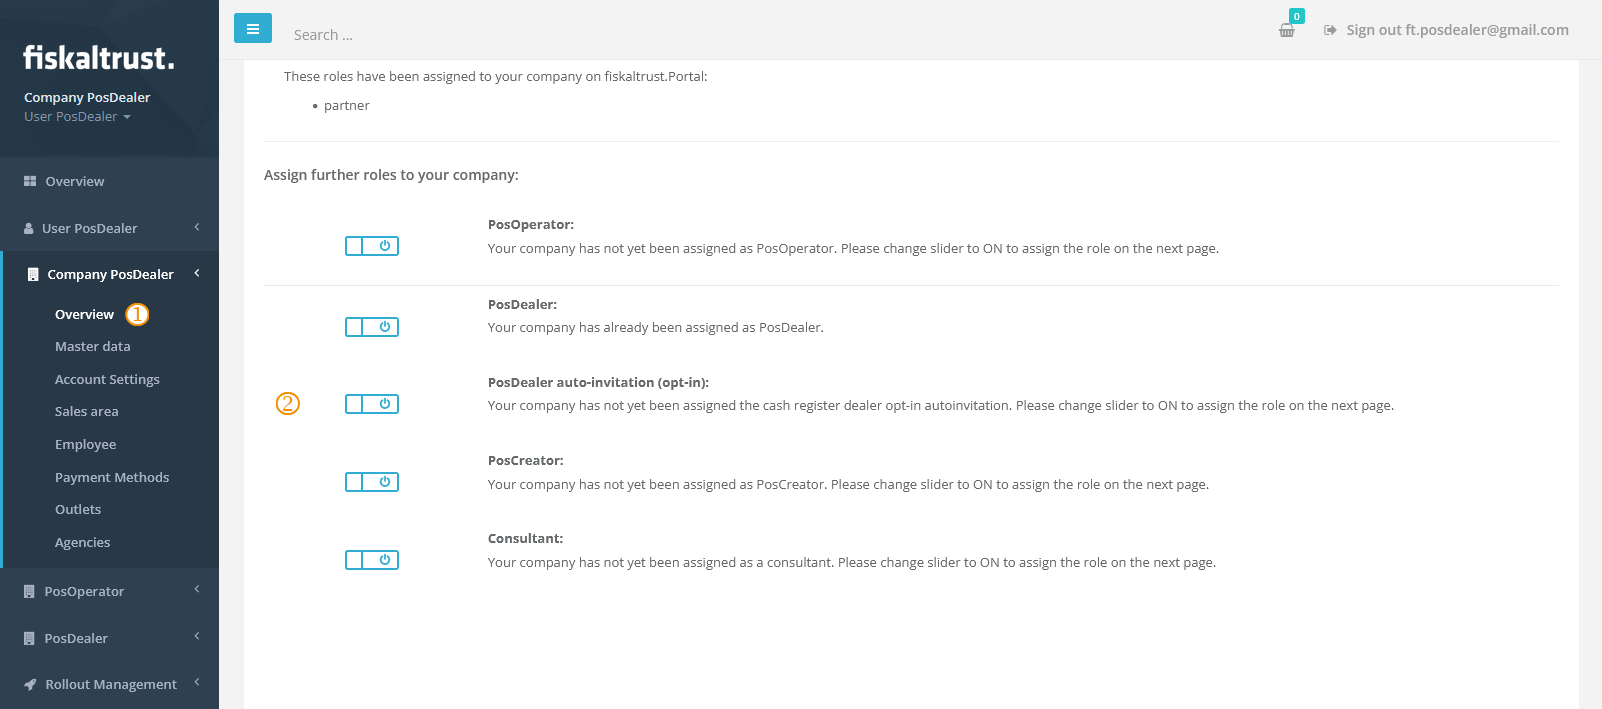
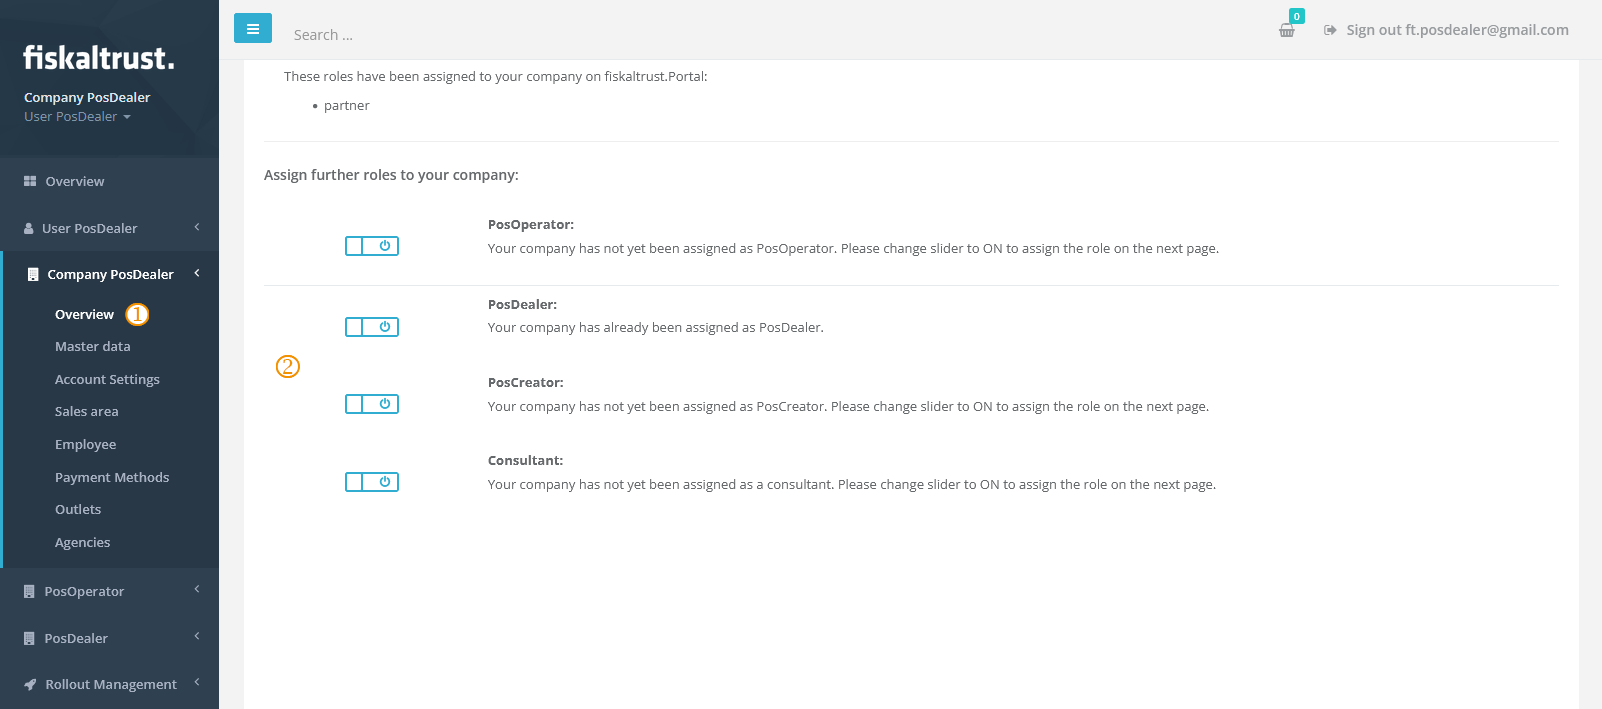
Details on Auto-Invitation

diff --git a/getting-started/company-roles.md b/getting-started/company-roles.md
@@ -17,12 +17,13 @@ After reading this, you can choose the right roles and explain their effects.
 Each role has a specific audience and comes with a distinct set of features and permissions.
 
 
-| Type                         | Description                                                  |
-| :--------------------------: | ------------------------------------------------------------ |
-| ![](../images/numbers/1.png) | **PosOperator**<br />This role is for **end-users of POS systems** who manage their POS receipts in the context of the services of *fiskaltrust*. They purchased the POS platform from their *PosDealer* and operate the POS system.<br /><br />*Accounts with this role use the portal primarily to access their fiscal data and perform maintenance steps not covered by their PosDealer.* |
-| ![](../images/numbers/2.png) | **PosDealer**<br />This role is for **POS system distributors** who sell POS systems to *PosOperators* and support and maintain these setups.<br /><br />*Accounts with this role use the portal primarily to act on behalf of their PosOperators. This includes invitation management, a credit limit, rollouts of CashBox setups and their maintenance.* |
-| ![](../images/numbers/3.png) | **PosCreator**<br />This role is for **POS system manufacturers** who develop the respective POS software. They are not primarily involved in rollouts or deployments but focus on the **technical integration** of the Middleware.<br /><br />*Accounts with this role use the portal primarily to set up their POS system definitions within the portal, create test configurations, and invite associated PosDealers.* |
-| ![](../images/numbers/4.png) | **Consultant**<br />This role is for **tax consultants** who advise *PosOperators* on related topics.<br /><br />*Accounts with this role use the portal primarily to access fiscal data of the associated (and authorised) operator accounts.* |
+|                  Type                   | Description                                                  |
+| :-------------------------------------: | ------------------------------------------------------------ |
+|      ![](../images/numbers/1.png)       | **PosOperator**<br />This role is for **end-users of POS systems** who manage their POS receipts in the context of the services of *fiskaltrust*. They purchased the POS platform from their *PosDealer* and operate the POS system.<br /><br />*Accounts with this role use the portal primarily to access their fiscal data and perform maintenance steps not covered by their PosDealer.* |
+|      ![](../images/numbers/2.png)       | **PosDealer**<br />This role is for **POS system distributors** who sell POS systems to *PosOperators* and support and maintain these setups.<br /><br />*Accounts with this role use the portal primarily to act on behalf of their PosOperators. This includes invitation management, a credit limit, rollouts of CashBox setups and their maintenance.* |
+| ![](./images/company-roles/twofive.png) | **PosDealer auto-invitation** (Germany-only)<br />This is an *optional* add-on role for **German POS system distributors** who wish to automate the on-boarding of their customers/operators as much as possible.<br /><br />*Accounts with this role will have an extended on-boarding user interface, allowing them to fully and legally activate an operator's account, as opposed to a regular invitation which the operator first has to accept.*<br /><br />**Please note, this role is only available on the German market and may require particular attention to legal aspects on your side.** |
+|      ![](../images/numbers/3.png)       | **PosCreator**<br />This role is for **POS system manufacturers** who develop the respective POS software. They are not primarily involved in rollouts or deployments but focus on the **technical integration** of the Middleware.<br /><br />*Accounts with this role use the portal primarily to set up their POS system definitions within the portal, create test configurations, and invite associated PosDealers.* |
+|      ![](../images/numbers/4.png)       | **Consultant**<br />This role is for **tax consultants** who advise *PosOperators* on related topics.<br /><br />*Accounts with this role use the portal primarily to access fiscal data of the associated (and authorised) operator accounts.* |
 
 <br />
 
